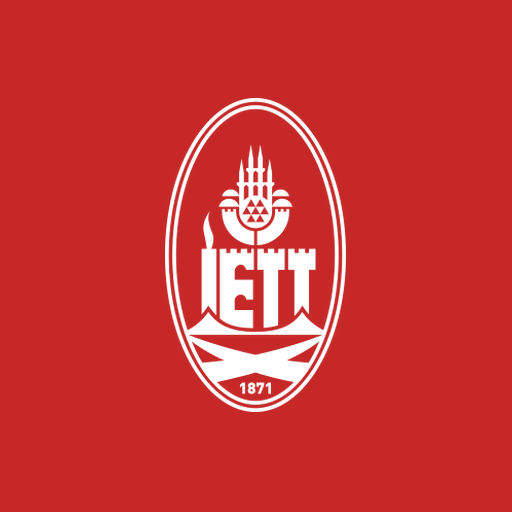
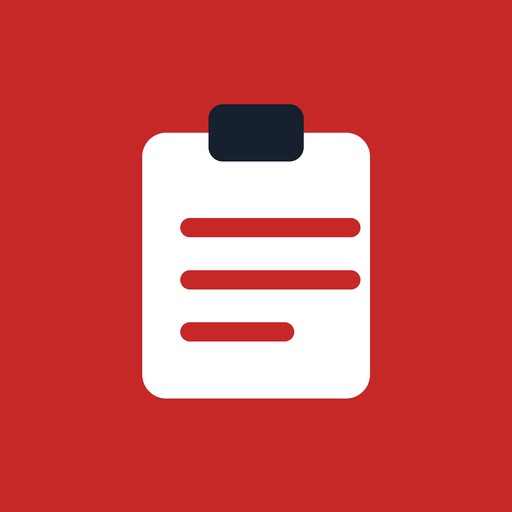
Web surumunden IETT logosu cikarildi
- Baslik cubugundaki ve sifre ekranindaki logo kaldirildi
- Ana ekran simgesi notr bir pano simgesiyle degistirildi
- logo.png depodan silindi

Android APK'daki logo oldugu gibi duruyor; o dosya internette yayinlanmiyor.

Claude-Session: https://claude.ai/code/session_014VFKgKx75Ad1iDJZefXjeR

Changed region(s): [[0.25, 0.1875, 0.75, 0.8125]]

diff --git a/docs/denetim/index.html b/docs/denetim/index.html
@@ -142,7 +142,7 @@
   #kilit { position: fixed; inset: 0; z-index: 100; background: var(--kirmizi);
     display: flex; flex-direction: column; align-items: center; justify-content: center;
     padding: 28px; text-align: center; }
-  #kilit img { height: 96px; width: auto; margin-bottom: 22px; }
+  #kilit img { width: 88px; height: 88px; border-radius: 18px; margin-bottom: 22px; }
   #kilit h2 { color: #FFF; font-size: 21px; margin: 0 0 20px; }
   #kilit input { max-width: 280px; text-align: center; font-size: 19px;
     border-color: #FFF; letter-spacing: 2px; }
@@ -153,7 +153,7 @@
 <body>
 
 <div id="kilit">
-  <img src="logo.png" alt="İETT">
+  <img src="icon-192.png" alt="">
   <h2>Araç Denetim Defteri</h2>
   <label for="girSifre" style="color:#FFF; font-size:14px; margin-bottom:8px;">Şifre</label>
   <input type="password" id="girSifre" inputmode="text" autocomplete="off"
@@ -166,7 +166,6 @@
   <button class="ust-btn gizli" id="btnGeri" aria-label="Geri">←</button>
   <h1 id="baslik">Araç Denetim</h1>
   <button class="ust-btn" id="btnMenu" aria-label="Menü">⋮</button>
-  <img src="logo.png" alt="İETT">
 </header>
 
 <main>

diff --git a/docs/denetim/sw.js b/docs/denetim/sw.js
@@ -3,13 +3,12 @@
  * İlk açılışta bütün dosyaları telefona kaydeder, sonra internetsiz çalışır.
  * Dosyalar değişince SURUM numarasını artırmak yeterlidir.
  */
-const SURUM = 'arac-denetim-v2';
+const SURUM = 'arac-denetim-v3';
 
 const DOSYALAR = [
   './',
   './index.html',
   './manifest.webmanifest',
-  './logo.png',
   './icon-192.png',
   './icon-512.png'
 ];
